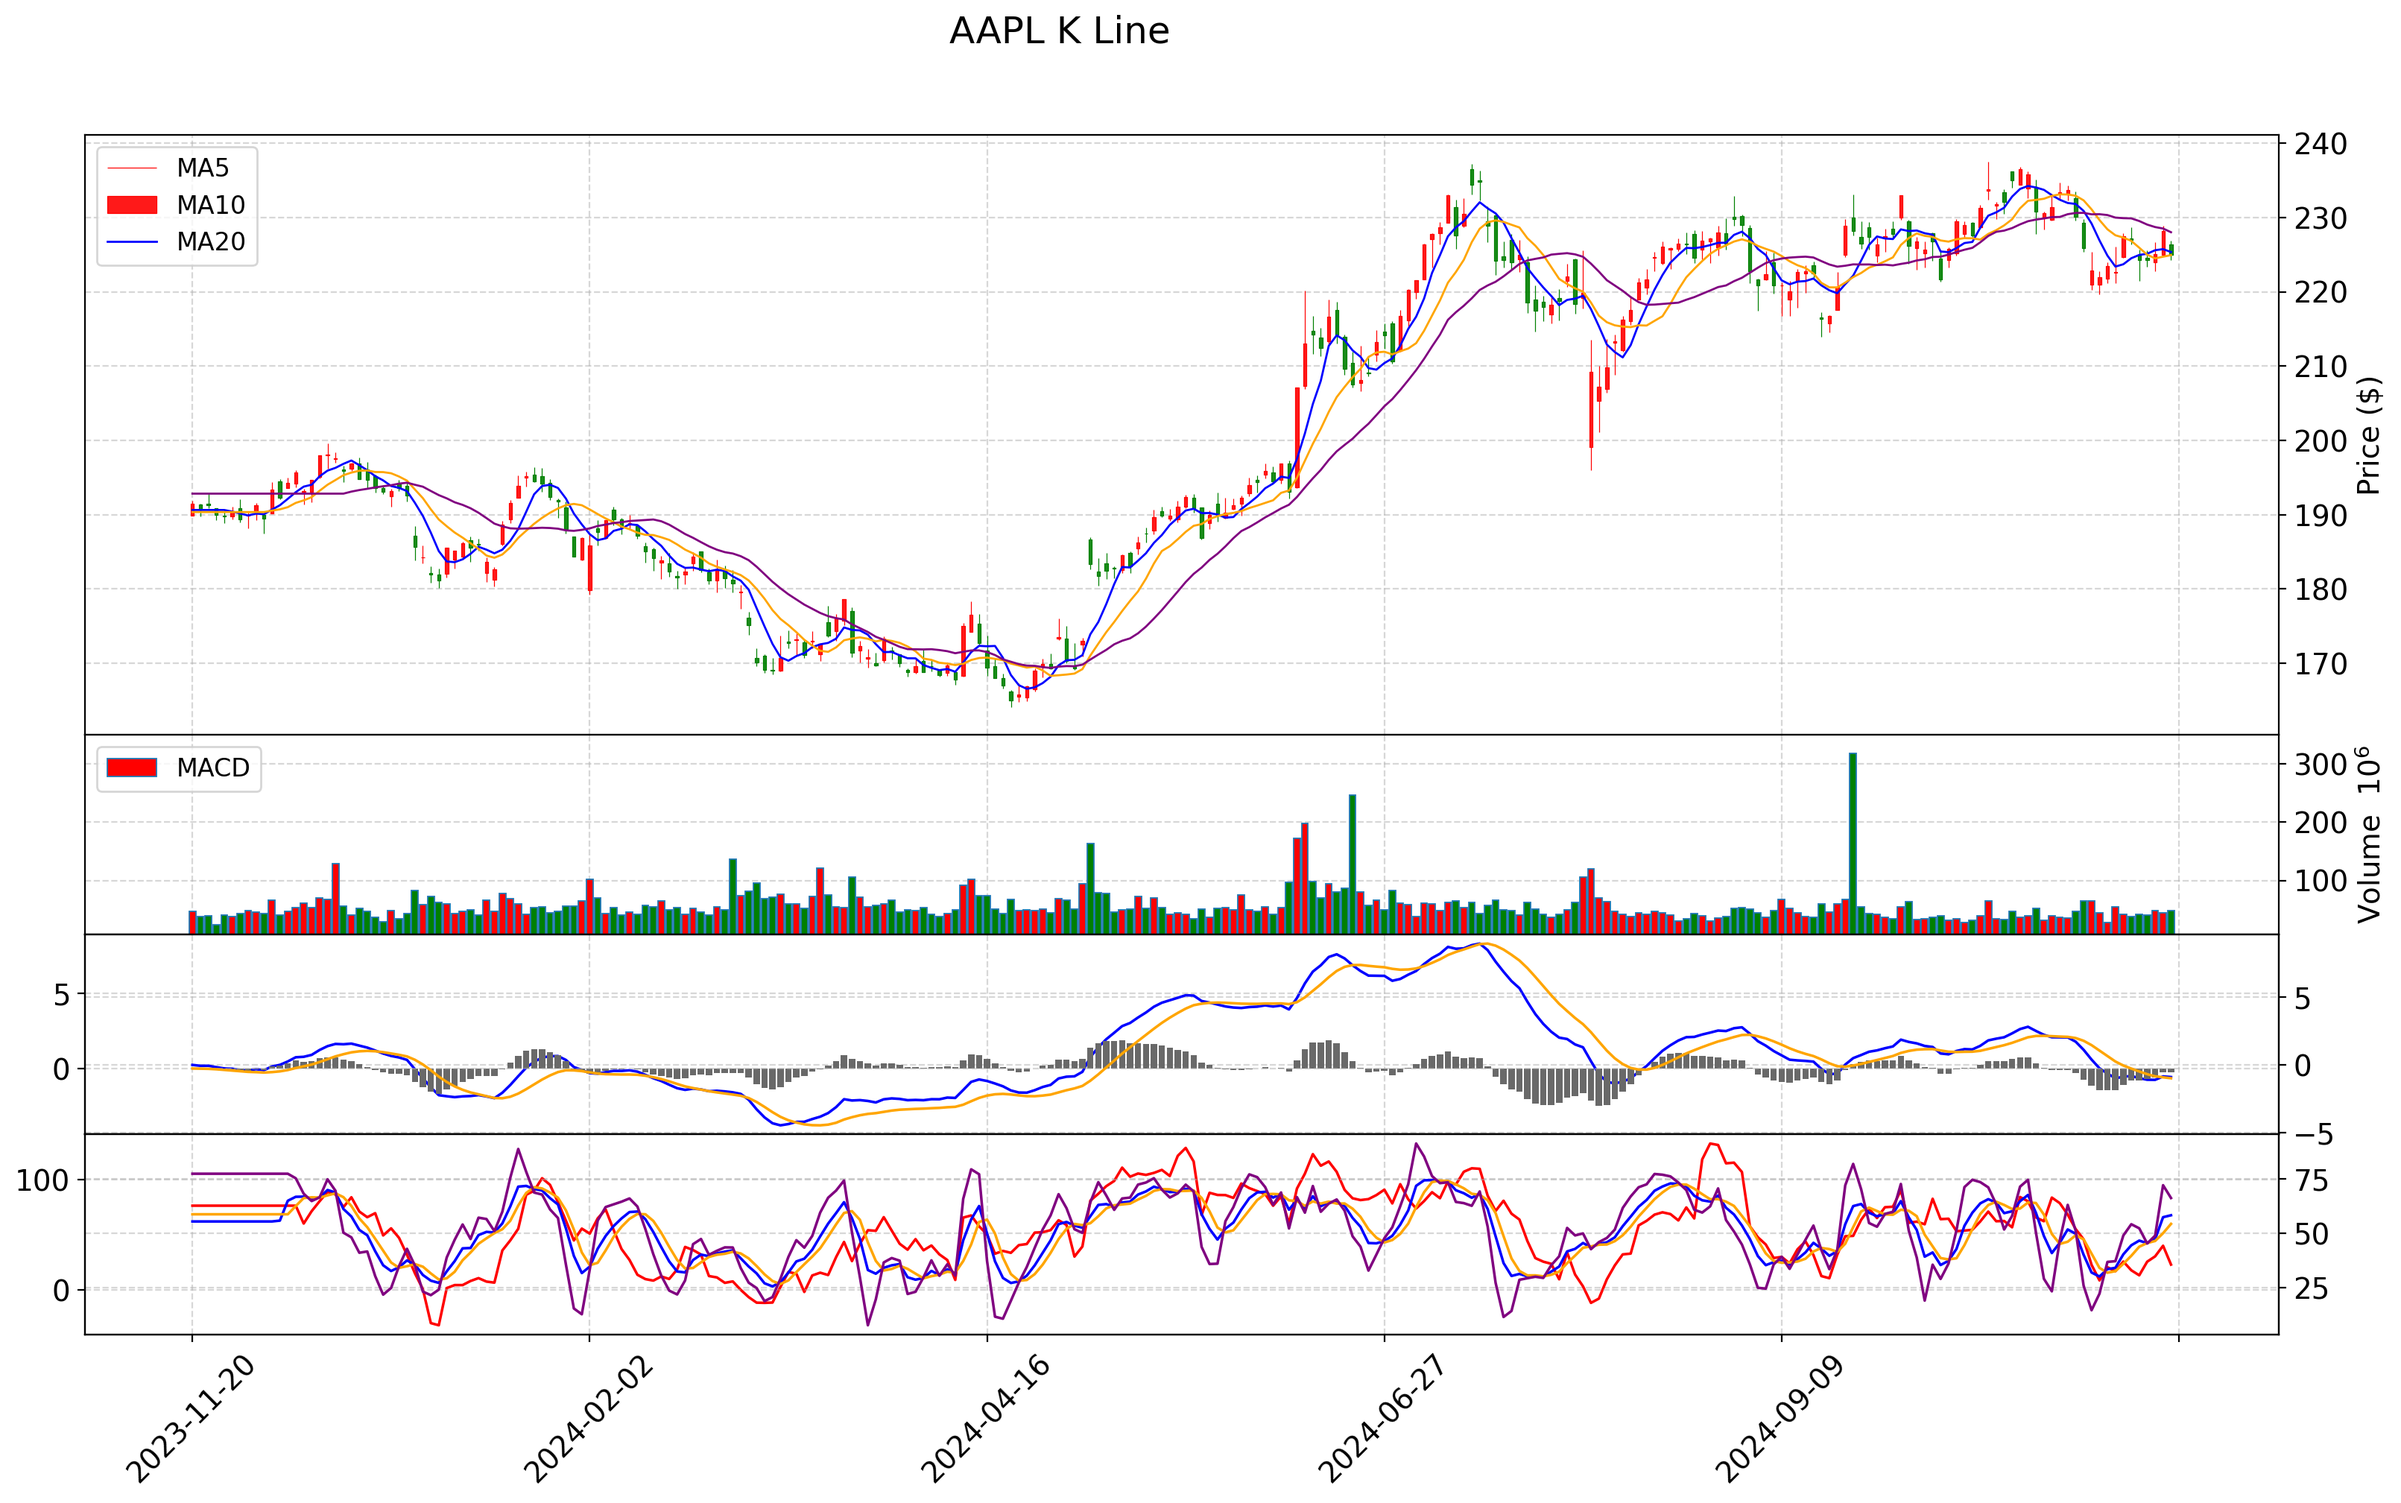
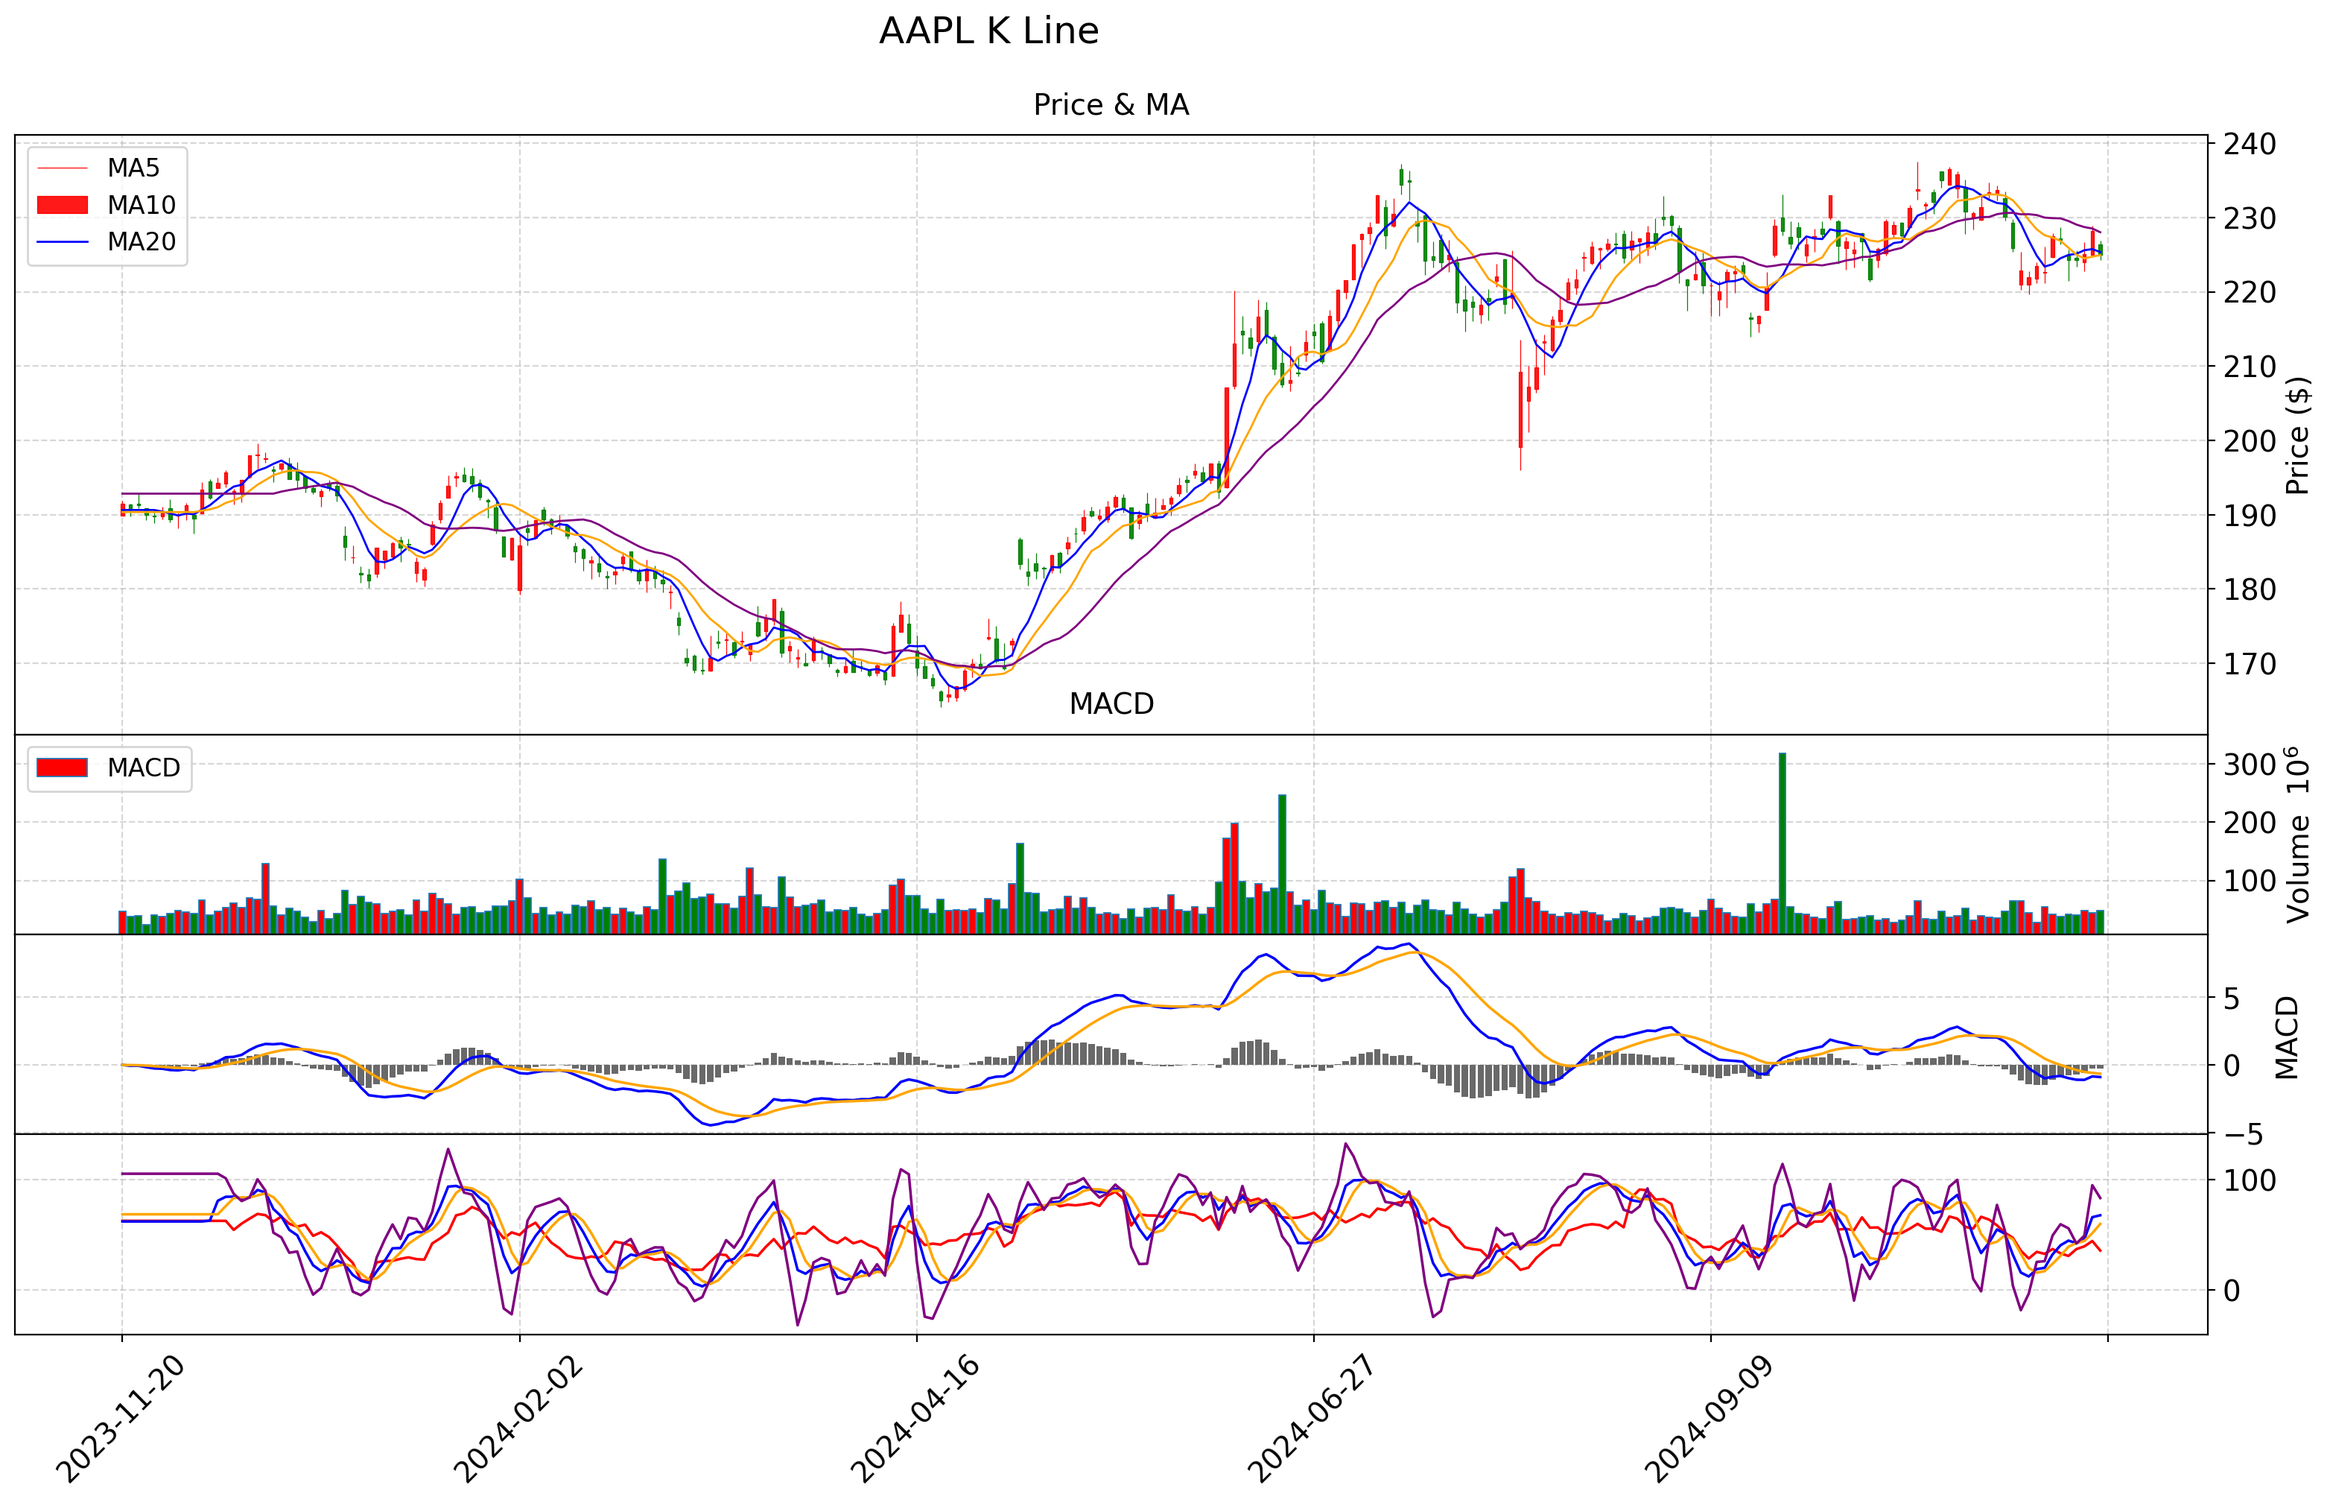
climb

diff --git a/chart.py b/chart.py
@@ -6,12 +6,12 @@ class ChartDrawer:
     def calculate_indicators(df):
         df = df.ffill().bfill()
         
-        df['MA5'] = df['Close'].rolling(window=5).mean()
-        df['MA10'] = df['Close'].rolling(window=10).mean()
-        df['MA20'] = df['Close'].rolling(window=20).mean()
+        df['MA5'] = df['Close'].rolling(window = 5).mean()
+        df['MA10'] = df['Close'].rolling(window = 10).mean()
+        df['MA20'] = df['Close'].rolling(window = 20).mean()
         
-        exp1 = df['Close'].ewm(span=12, adjust=False).mean()
-        exp2 = df['Close'].ewm(span=26, adjust=False).mean()
+        exp1 = df['Close'].ewm(span = 12, adjust = False).mean()
+        exp2 = df['Close'].ewm(span = 26, adjust = False).mean()
         df['MACD'] = exp1 - exp2
         df['MACD_Signal'] = df['MACD'].ewm(span = 9, adjust = False).mean()
         df['MACD_Hist'] = df['MACD'] - df['MACD_Signal']
@@ -63,18 +63,18 @@ class ChartDrawer:
         )
         
         add_plots = [
-            mpf.make_addplot(df['MA5'], color = 'blue', width = 1),
-            mpf.make_addplot(df['MA10'], color = 'orange', width = 1),
-            mpf.make_addplot(df['MA20'], color = 'purple', width = 1),
+            mpf.make_addplot(df['MA5'], color='blue', width=1, panel=0, secondary_y=False),
+            mpf.make_addplot(df['MA10'], color='orange', width=1, panel=0, secondary_y=False),
+            mpf.make_addplot(df['MA20'], color='purple', width=1, panel=0, secondary_y=False),
             
-            mpf.make_addplot(df['MACD'], color = 'blue', panel = 2),
-            mpf.make_addplot(df['MACD_Signal'], color = 'orange', panel = 2),
-            mpf.make_addplot(df['MACD_Hist'], type = 'bar', color = 'dimgray', panel = 2),
+            mpf.make_addplot(df['MACD'], color='blue', panel=2, secondary_y=False, ylabel='MACD'),
+            mpf.make_addplot(df['MACD_Signal'], color='orange', panel=2, secondary_y=False),
+            mpf.make_addplot(df['MACD_Hist'], type='bar', color='dimgray', panel=2, secondary_y=False),
             
-            mpf.make_addplot(df['RSI'], color = 'red', panel = 3),
-            mpf.make_addplot(df['KDJ_K'], color = 'blue', panel = 3),
-            mpf.make_addplot(df['KDJ_D'], color = 'orange', panel = 3),
-            mpf.make_addplot(df['KDJ_J'], color = 'purple', panel = 3)
+            mpf.make_addplot(df['RSI'], color='red', panel=3, secondary_y=False),
+            mpf.make_addplot(df['KDJ_K'], color='blue', panel=3, secondary_y=False),
+            mpf.make_addplot(df['KDJ_D'], color='orange', panel=3, secondary_y=False),
+            mpf.make_addplot(df['KDJ_J'], color='purple', panel=3, secondary_y=False)
         ]
         
         fig, axes = mpf.plot(
@@ -90,17 +90,32 @@ class ChartDrawer:
             figscale = 2,
             returnfig = True,
             xrotation = 0,
-            datetime_format = '%Y-%m-%d'
+            datetime_format = '%Y-%m-%d',
+            volume_panel = 1
         )
         
         for ax in axes:
             if ax is not None:
-                ax.tick_params(axis = 'x', rotation = 45)
-                ax.grid(True, linestyle = '--', alpha = 0.5)
+                ax.tick_params(axis='x', rotation=45)
+                ax.grid(True, linestyle='--', alpha=0.5)
+                if hasattr(ax, 'legend_') and ax.legend_:
+                    ax.legend_.remove()
         
-        axes[0].legend(['MA5', 'MA10', 'MA20'], loc = 'upper left', fontsize = 12)
-        axes[2].legend(['MACD', 'Signal', 'Histogram'], loc = 'upper left', fontsize = 12)
-        axes[3].legend(['RSI', 'K', 'D', 'J'], loc = 'upper left', fontsize = 12)
+        axes[0].legend(['MA5', 'MA10', 'MA20'], 
+                      loc='upper left', fontsize=12)
+        
+        if len(axes) > 2:
+            axes[2].legend(['MACD', 'Signal', 'Histogram'], 
+                          loc='upper left', fontsize=12)
+        
+        if len(axes) > 3:
+            axes[3].legend(['RSI', 'K', 'D', 'J'], 
+                          loc='upper left', fontsize=12)
+        
+        axes[0].set_title('Price & MA', fontsize = 14, pad = 10)
+        axes[1].set_title('Volume', fontsize = 14, pad = 10)
+        axes[2].set_title('MACD', fontsize = 14, pad = 10)
+        axes[3].set_title('RSI & KDJ', fontsize = 14, pad = 10)
         
         fig.suptitle('AAPL K Line', fontsize = 18, y = 0.95)
         

diff --git a/database.py b/database.py
@@ -9,7 +9,6 @@ class Database:
         self.create_tables()
     
     def create_tables(self):
-        # 先删除已存在的表
         self.cursor.execute('DROP TABLE IF EXISTS apple')
         self.cursor.execute('''
             CREATE TABLE IF NOT EXISTS apple (
@@ -34,7 +33,6 @@ class Database:
         self.conn.commit()
     
     def save_stock_data(self, df):
-        # 将NaN值替换为None，这样MySQL会将其存储为NULL
         df = df.where(pd.notnull(df), None)
         
         for index, row in df.iterrows():
@@ -84,11 +82,9 @@ class Database:
                                        'MA5', 'MA10', 'MA20', 'MACD', 'MACD_Signal', 'MACD_Hist',
                                        'RSI', 'KDJ_K', 'KDJ_D', 'KDJ_J'])
         
-        # 将Date列转换为datetime类型并设置为索引
         df['Date'] = pd.to_datetime(df['Date'])
         df.set_index('Date', inplace=True)
         
-        # 确保所有数值列都是float类型（除了Volume是整数）
         float_columns = ['Open', 'High', 'Low', 'Close', 'MA5', 'MA10', 'MA20',
                         'MACD', 'MACD_Signal', 'MACD_Hist', 'RSI', 'KDJ_K', 'KDJ_D', 'KDJ_J']
         for col in float_columns:
@@ -98,7 +94,6 @@ class Database:
         return df
     
     def __del__(self):
-        """确保程序结束时关闭数据库连接"""
         if hasattr(self, 'cursor') and self.cursor:
             self.cursor.close()
         if hasattr(self, 'conn') and self.conn:

diff --git a/config.py b/config.py
@@ -1,4 +1,3 @@
-# 数据库配置
 DB_CONFIG = {
     'host': 'localhost',
     'user': 'root',
@@ -7,5 +6,4 @@ DB_CONFIG = {
     'charset': 'utf8mb4'
 }
 
-# 股票配置
 STOCK_SYMBOL = 'AAPL'
